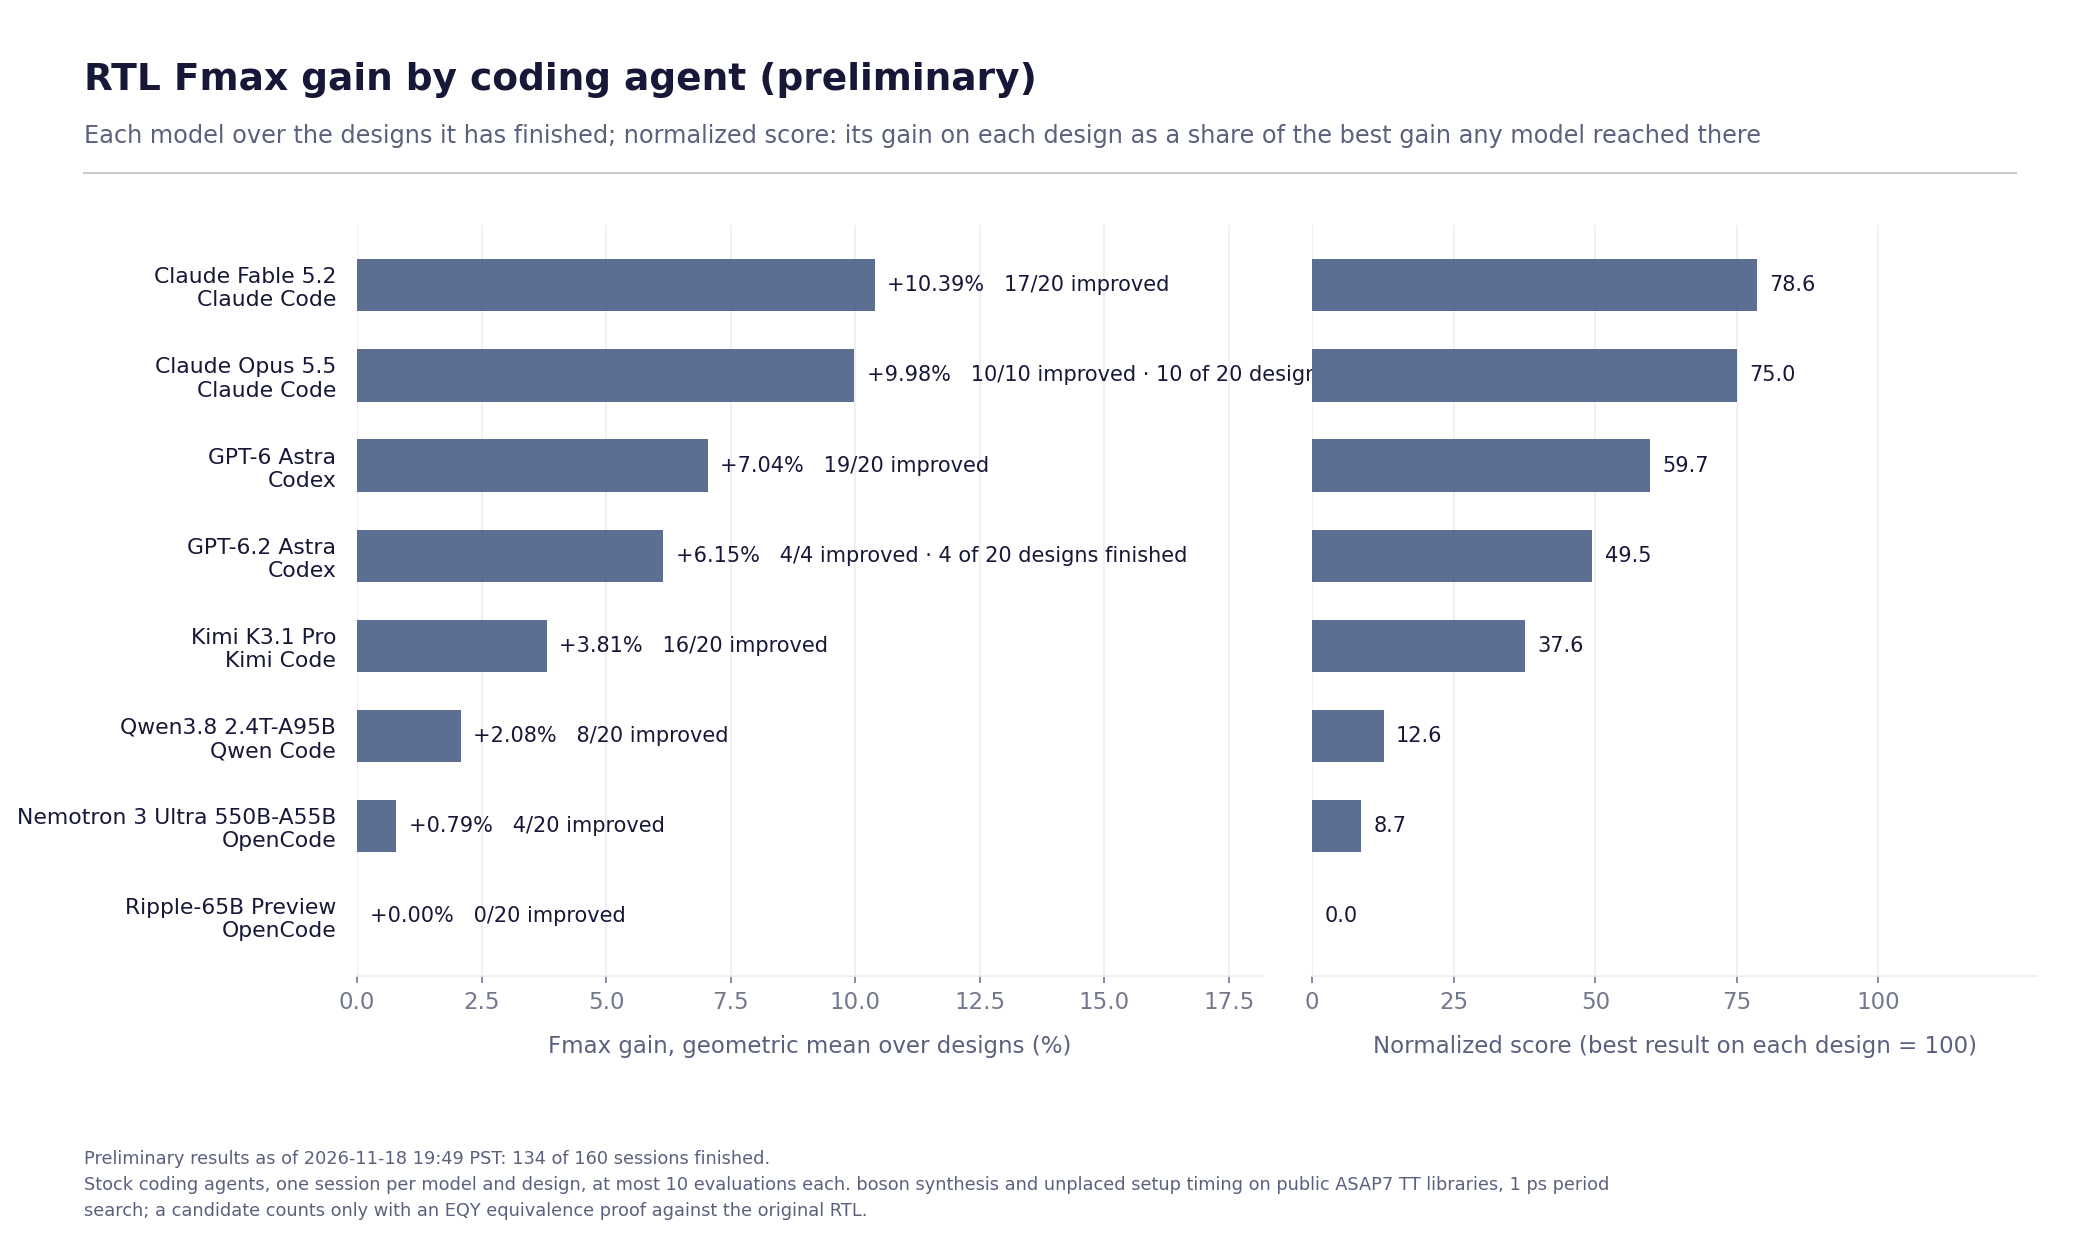
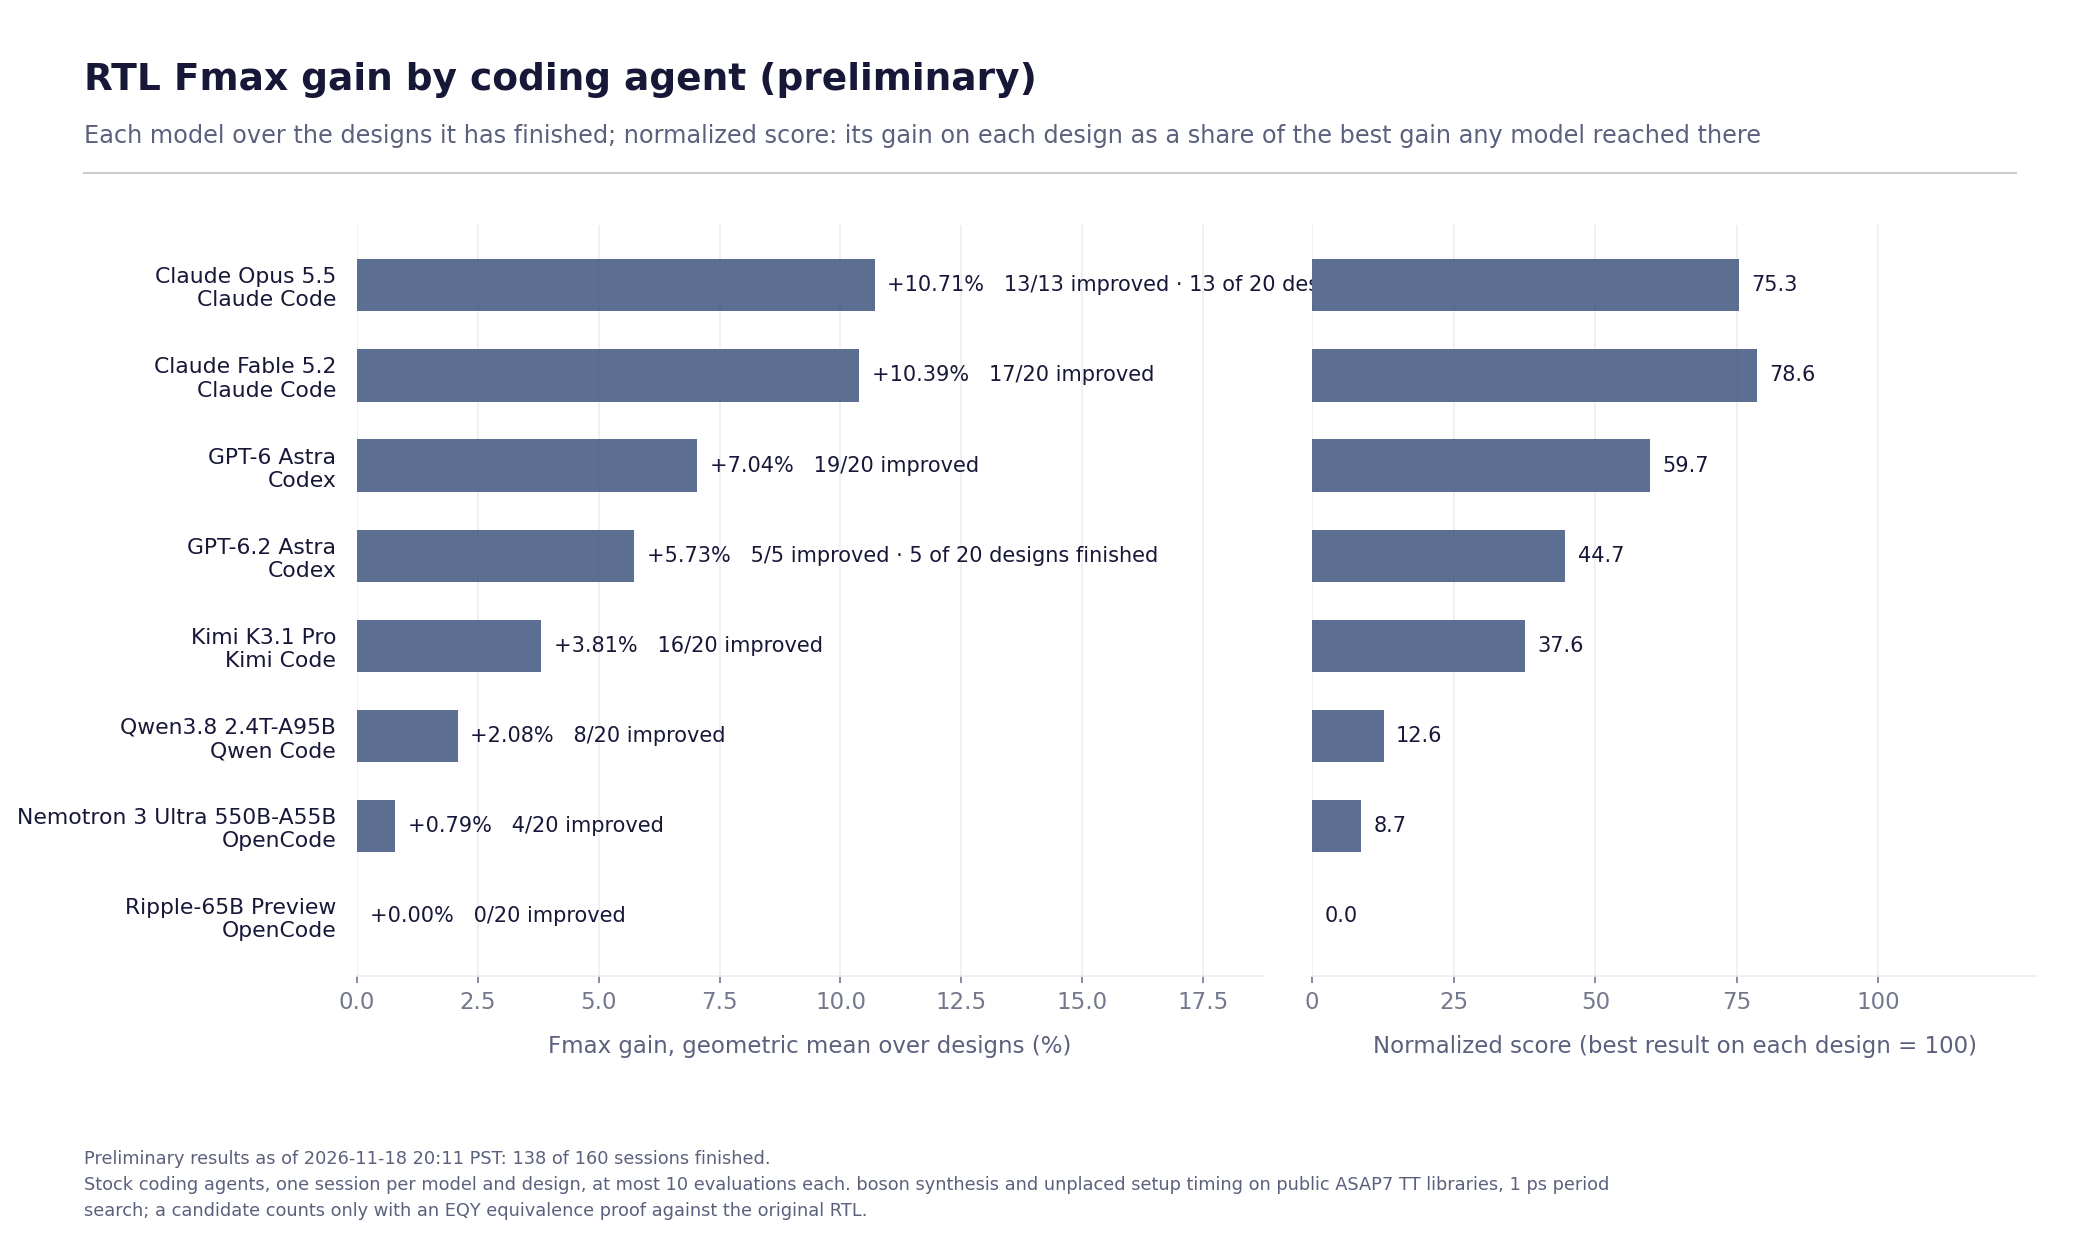
Refresh preliminary results: 138 of 160 sessions finished
Data as of 2026-11-18 20:11 PST.

diff --git a/README.md b/README.md
@@ -22,7 +22,7 @@ accepted only when it is proven equivalent and faster than the session's best so
 ## Results
 
 <!-- results:start -->
-**Status:** 134 of 160 sessions finished (8 models, 20 designs), as of 2026-11-18 19:49 PST.
+**Status:** 138 of 160 sessions finished (8 models, 20 designs), as of 2026-11-18 20:11 PST.
 
 ### Coverage
 
@@ -34,17 +34,17 @@ accepted only when it is proven equivalent and faster than the session's best so
 | Qwen3.8 2.4T-A95B | Qwen (Alibaba) | Qwen Code 0.27.1 | OpenRouter, one pinned provider (SiliconFlow, FP8) | 20 / 20 |
 | Ripple-65B Preview | Ricursive AI | OpenCode 1.19.5 | Self-hosted (SGLang 0.5.19, BF16) for its first 15 designs; OpenRouter pinned to PrimeIntellect (BF16) for later sessions | 20 / 20 |
 | Nemotron 3 Ultra 550B-A55B | NVIDIA | OpenCode 1.19.5 | OpenRouter, pinned to DeepInfra (FP4), fallbacks disabled | 20 / 20 |
-| GPT-6.2 Astra | OpenAI | Codex 0.169.1 | Official CLI signed in to a subscription; reasoning effort medium, as GPT-6 Astra ran | 4 / 20 |
-| Claude Opus 5.5 | Anthropic | Claude Code 2.1.322 | Official CLI signed in to a subscription | 10 / 20 |
+| GPT-6.2 Astra | OpenAI | Codex 0.169.1 | Official CLI signed in to a subscription; reasoning effort medium, as GPT-6 Astra ran | 5 / 20 |
+| Claude Opus 5.5 | Anthropic | Claude Code 2.1.322 | Official CLI signed in to a subscription | 13 / 20 |
 
 ### Results by model
 
 | Model | Harness | Designs finished | Fmax gain (geomean) | Normalized score | Designs improved | Mean evaluations | Candidates not proven |
 |---|---|---:|---:|---:|---:|---:|---:|
+| Claude Opus 5.5 | Claude Code | 13 / 20 | +10.71% | 75.3 | 13 / 13 | 4.8 | 33% (21 / 63) |
 | Claude Fable 5.2 | Claude Code | 20 / 20 | +10.39% | 78.6 | 17 / 20 | 5.0 | 42% (42 / 99) |
-| Claude Opus 5.5 | Claude Code | 10 / 20 | +9.98% | 75.0 | 10 / 10 | 4.6 | 30% (14 / 46) |
 | GPT-6 Astra | Codex | 20 / 20 | +7.04% | 59.7 | 19 / 20 | 8.4 | 27% (45 / 169) |
-| GPT-6.2 Astra | Codex | 4 / 20 | +6.15% | 49.5 | 4 / 4 | 8.8 | 60% (21 / 35) |
+| GPT-6.2 Astra | Codex | 5 / 20 | +5.73% | 44.7 | 5 / 5 | 8.2 | 56% (23 / 41) |
 | Kimi K3.1 Pro | Kimi Code | 20 / 20 | +3.81% | 37.6 | 16 / 20 | 5.9 | 63% (74 / 118) |
 | Qwen3.8 2.4T-A95B | Qwen Code | 20 / 20 | +2.08% | 12.6 | 8 / 20 | 2.1 | 67% (28 / 42) |
 | Nemotron 3 Ultra 550B-A55B | OpenCode | 20 / 20 | +0.79% | 8.7 | 4 / 20 | 6.2 | 72% (89 / 123) |
@@ -59,7 +59,7 @@ Fmax gain is the geometric mean of each finished session's Fmax ratio (baseline 
 | `cheshire.default` | 1.047 | 7 | 0.957 | +9.40% | Claude Opus 5.5 |
 | `cv32e40p.default` | 0.657 | 7 | 0.620 | +5.97% | GPT-6 Astra |
 | `cva6.default` | 1.038 | 7 | 1.005 | +3.28% | Claude Opus 5.5 |
-| `cvfpu.fp32_fma` | 1.401 | 6 | 1.070 | +30.93% | Claude Fable 5.2 |
+| `cvfpu.fp32_fma` | 1.401 | 7 | 1.070 | +30.93% | Claude Fable 5.2 |
 | `cvfpu.full` | 2.114 | 6 | 1.981 | +6.71% | Claude Fable 5.2 |
 | `ibex.full` | 0.935 | 6 | 0.899 | +4.00% | GPT-6 Astra, Kimi K3.1 Pro |
 | `ibex.minimal` | 0.716 | 6 | 0.676 | +5.92% | Claude Fable 5.2 |
@@ -73,17 +73,17 @@ Fmax gain is the geometric mean of each finished session's Fmax ratio (baseline 
 | `ara.default` | 1.064 | 7 | 0.942 | +12.95% | Claude Fable 5.2 |
 | `pulp_c910.default` | 1.005 | 8 | 0.902 | +11.42% | Claude Opus 5.5 |
 | `spatz.default` | 2.266 | 8 | 1.868 | +21.31% | Claude Fable 5.2 |
-| `snitch_cluster.default` | 2.128 | 7 | 1.751 | +21.53% | Claude Fable 5.2 |
-| `redmule.default` | 1.636 | 7 | 1.542 | +6.10% | Claude Fable 5.2 |
-| `snitch_cluster.default_latch` | 2.169 | 7 | 1.871 | +15.93% | Claude Fable 5.2 |
+| `snitch_cluster.default` | 2.128 | 8 | 1.751 | +21.53% | Claude Fable 5.2 |
+| `redmule.default` | 1.636 | 8 | 1.542 | +6.10% | Claude Fable 5.2 |
+| `snitch_cluster.default_latch` | 2.169 | 8 | 1.871 | +15.93% | Claude Fable 5.2 |
 
 ### Early observations
 
 Counts over every finished session of the models above. They describe what happened; with one session per model and design they do not establish causes or rankings.
 
-- 635 candidates evaluated: 177 accepted, 134 proven equivalent but not faster than the session's best, 316 not proven (234 with a partition EQY could not prove, 35 at the proof deadline, 41 over the proof memory budget, 6 for another reason), 8 failed to compile or measure.
-- Of 134 finished sessions, 91 ended with the agent finishing on its own, 42 ran to the time budget and 1 ended with an agent error.
-- Sessions used 4.7 of the 10 allowed evaluations on average; 22 used all 10.
+- 658 candidates evaluated: 186 accepted, 139 proven equivalent but not faster than the session's best, 325 not proven (237 with a partition EQY could not prove, 39 at the proof deadline, 43 over the proof memory budget, 6 for another reason), 8 failed to compile or measure.
+- Of 138 finished sessions, 93 ended with the agent finishing on its own, 44 ran to the time budget and 1 ended with an agent error.
+- Sessions used 4.8 of the 10 allowed evaluations on average; 22 used all 10.
 - Largest single gain so far: `mempool.minpool` by Claude Opus 5.5, 2.869 ns to 1.913 ns (+49.97% Fmax).
 <!-- results:end -->
 
